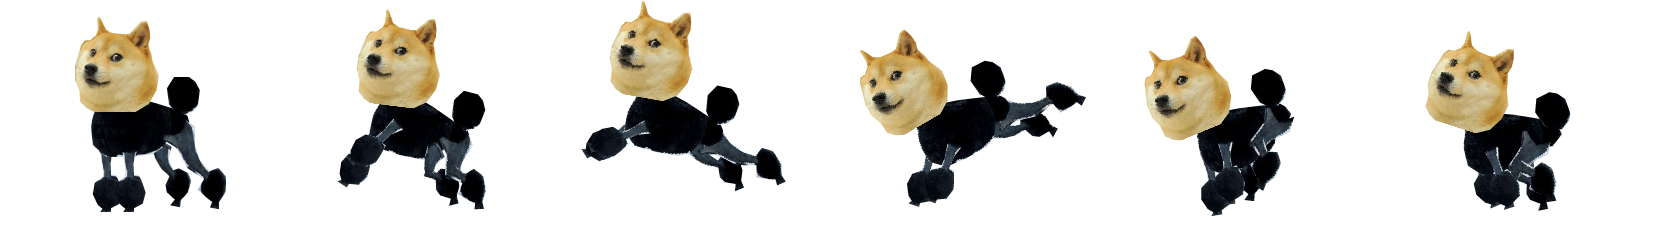
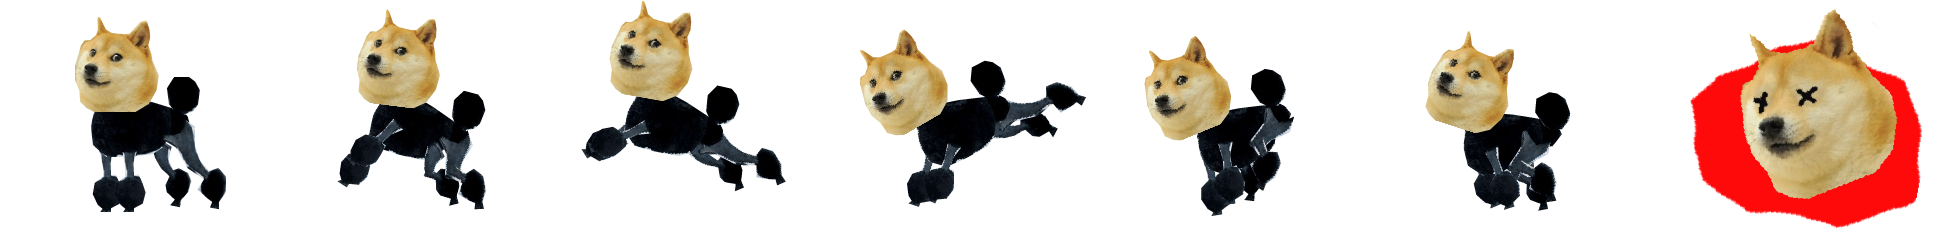
dog dead gfx

diff --git a/enemy.js b/enemy.js
@@ -1,10 +1,10 @@
 function initEnemyGlobals() {
 
-	//Events.create('cat-died');
+	Events.create('enemy-died');
 
 	var img = Resources.getResult('chara/doge_run');
 
-	Enemy.imgW = 1668 / 6;
+	Enemy.imgW = 1946 / 7;
 	Enemy.imgH = 230;
 
 	Enemy.runSheet = new createjs.SpriteSheet({
@@ -15,11 +15,12 @@ function initEnemyGlobals() {
 
 			regX: Enemy.imgW / 2,
 			regY: Enemy.imgH - 40,
-			count: 6
+			count: 7
 		},
 
 		animations: {
-			run: [0, 5, 'run']
+			run: [0, 5, 'run'],
+			die: [6, 6, 'die']
 		}
 	});
 };
@@ -110,7 +111,87 @@ Enemy = function (def, x, y, instructions) {
 
 
 	Events.subscribe('player-toggle-bigness', function (becomeBig) {
-		becomeBig = !becomeBig;
+
+		if (self.isDead()) {
+			return;
+		}
+
+		self.setBig(!becomeBig);
+	});
+
+};
+Enemy.prototype = {
+	position: function () {
+		return this.body.GetPosition();
+	},
+
+	velocity: function () {
+		return this.body.GetLinearVelocity();
+	},
+
+	isDead: function () {
+		return this.health <= 0;
+	},
+
+	updateDamage: function () {
+		var wasDead = this.isDead();
+
+		if (this.takesDamage) {
+			this.health -= this.takesDamage * (this.isBig ? 1 : 2);
+			this.takesDamage = 0;
+		}
+
+		if (this.isDead()) {
+			if (!wasDead) {
+				this.die();
+			}
+			//deadies don't deal damage
+			this.dealtDamage = true;
+		} else {
+			this.dealtDamage = false;
+		}
+	},
+	die: function () {
+		Events.publish('enemy-died', this.position(), this);
+		//this.catSprite.y += 10;
+		if (this.isBig) {
+			this.setBig(false);
+		}
+	},
+
+	update: function (dt) {
+
+	},
+
+	renderUpdate: function () {
+		this.container.x = this.position().x * SIM_SCALE_X;
+		this.container.y = this.position().y * SIM_SCALE_Y;
+
+		var sign = Math.sign(this.forceToApply.x) || Math.sign(-this.sprite.scaleX);
+
+		//if (this._target) {
+		//	sign = this.position().x > this._target.position().x ? -1 : 1;
+		//}
+
+		//this.shape.rotation = this.velocity().Angle();
+		if (this.isDead()) {
+			sign = sign || 1;
+			this.sprite.gotoAndPlay('die');
+		} else if (this.velocity().LengthSquared() < 1) {
+			this.sprite.gotoAndStop(0);
+		} else if (this.sprite.paused) {
+			this.sprite.gotoAndPlay('run');
+		}
+
+		this.sprite.scaleX = Math.abs(this.sprite.scaleX) * -sign;
+
+		this.healthBar.update(this.health);
+		this.healthBar.shape.alpha = (this.health < this.maxHealth && this.health > 0) ? 1 : 0;
+	},
+
+	setBig: function (becomeBig) {
+		var self = this;
+
 		self.isBig = becomeBig;
 		self.transforming = true;
 		self.aiState = null;
@@ -148,55 +229,5 @@ Enemy = function (def, x, y, instructions) {
 				}
 			});
 		self.isBig = becomeBig;
-	});
-
-};
-Enemy.prototype = {
-	position: function () {
-		return this.body.GetPosition();
-	},
-
-	velocity: function () {
-		return this.body.GetLinearVelocity();
-	},
-
-	isDead: function () {
-		return this.health <= 0;
-	},
-
-	updateDamage: function () {
-		//TODO
-		if (this.takesDamage) {
-			this.health -= this.takesDamage;
-			this.takesDamage = 0;
-		}
-		this.dealtDamage = false;
-	},
-
-	update: function (dt) {
-
-	},
-
-	renderUpdate: function () {
-		this.container.x = this.position().x * SIM_SCALE_X;
-		this.container.y = this.position().y * SIM_SCALE_Y;
-
-		var sign = Math.sign(this.forceToApply.x) || Math.sign(-this.sprite.scaleX);
-
-		this.sprite.scaleX = Math.abs(this.sprite.scaleX) * -sign;
-
-		//if (this._target) {
-		//	sign = this.position().x > this._target.position().x ? -1 : 1;
-		//}
-
-		//this.shape.rotation = this.velocity().Angle();
-		if (this.velocity().LengthSquared() < 1) {
-			this.sprite.gotoAndStop(0);
-		} else if (this.sprite.paused) {
-			this.sprite.gotoAndPlay('run');
-		}
-
-		this.healthBar.update(this.health);
-		this.healthBar.shape.alpha = (this.health < this.maxHealth && this.health > 0) ? 1 : 0;
 	}
 };
